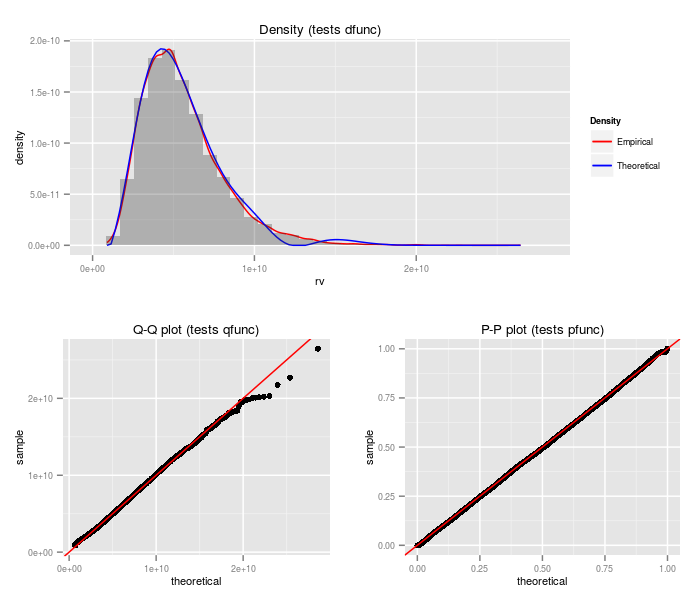
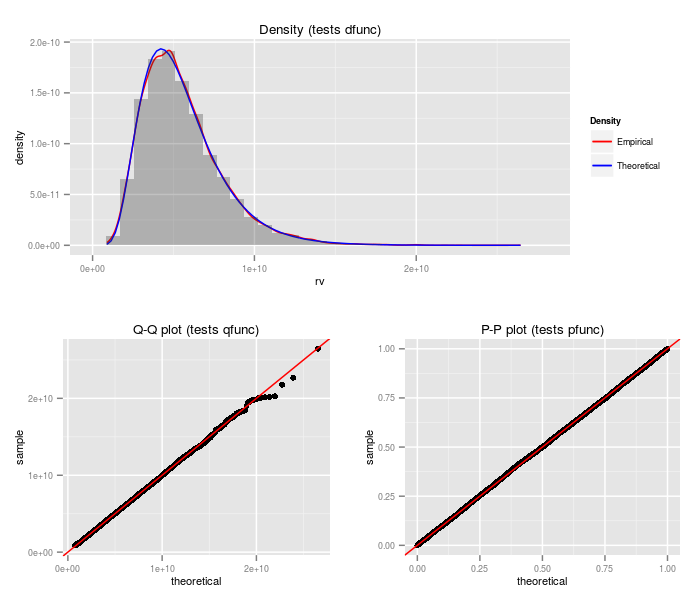
fixing proddnf and prodchisqpow!

diff --git a/README.md b/README.md
@@ -242,6 +242,8 @@ testf(list(d = dsumlogchisq, p = psumlogchisq, q = qsumlogchisq,
 
 This distribution is the product of independent 
 doubly non-central F variates.
+The PDQ functions are computed by 
+transformation on the sum of log chi-squares distribution.
 
 
 ```r
@@ -256,12 +258,12 @@ testf(list(d = dproddnf, p = pproddnf, q = qproddnf,
 
 <img src="github_extra/figure/proddnf-1.png" title="plot of chunk proddnf" alt="plot of chunk proddnf" width="700px" height="600px" />
 
-Ack! Well, that didn't go so well. Another approach is needed here.
-
 ## Product of (non-central) chi-squares to power
 
 This distribution is the product of independent 
-non-central chi-square variates taken to some powers.
+non-central chi-square variates taken to some powers. 
+The PDQ functions are computed by 
+transformation on the sum of log chi-squares distribution.
 
 
 ```r
@@ -275,32 +277,3 @@ testf(list(d = dprodchisqpow, p = pprodchisqpow, q = qprodchisqpow,
 
 <img src="github_extra/figure/prodchisqpow-1.png" title="plot of chunk prodchisqpow" alt="plot of chunk prodchisqpow" width="700px" height="600px" />
 
-Hmmm, the density approximation does not look too hot. Probably we should be looking
-at the distribution of the log product, equivalently the weighted sum of logs of non-central
-chi-squares. Let's look at that:
-
-
-```r
-require(sadists)
-df <- c(100, 200, 100, 50)
-ncp <- c(0, 1, 0.5, 2)
-pow <- c(1, 0.5, 2, 1.5)
-dlpc <- function(x, ...) {
-    dprodchisqpow(exp(x), ...) * exp(x)
-}
-plpc <- function(q, ...) {
-    pprodchisqpow(exp(q), ...)
-}
-qlpc <- function(p, ...) {
-    log(qprodchisqpow(p, ...))
-}
-rlpc <- function(n, ...) {
-    log(rprodchisqpow(n, ...))
-}
-testf(list(d = dlpc, p = plpc, q = qlpc, r = rlpc), 
-    nobs = 2^14, df, ncp, pow)
-```
-
-<img src="github_extra/figure/logprodchisqpow-1.png" title="plot of chunk logprodchisqpow" alt="plot of chunk logprodchisqpow" width="700px" height="600px" />
-
-Well, that didn't help, did it?
